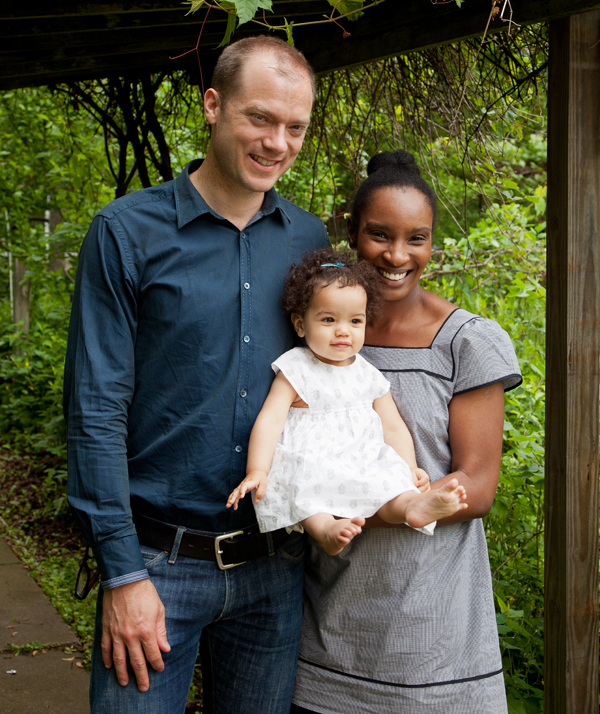
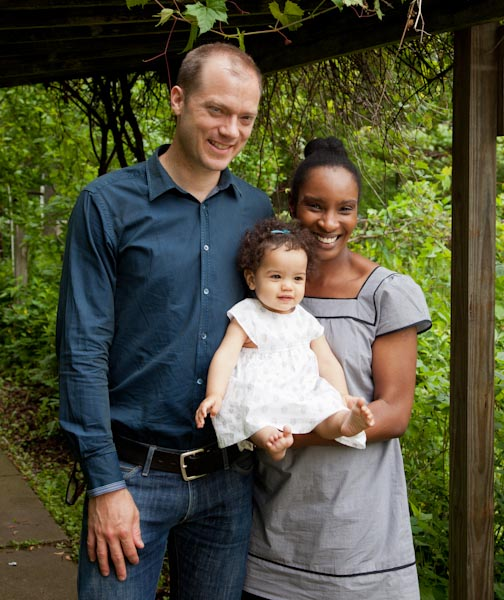
downsized events and portraits images, renamed some portraits

diff --git a/js/site.js b/js/site.js
@@ -1,6 +1,6 @@
 $(document).ready(function() {
 
-	var maxHeightPhoto = 800;
+	var maxHeightPhoto = 600;
 	var maxWinHeight = 0.8;
 	var bodyID = $('body').attr('id'); // get bodyID so can set navType to lib or photo 
 	var libPageArray = new Array("resume","portfolio","lab", "contactLib");

diff --git a/portraits/index.php b/portraits/index.php
@@ -15,6 +15,7 @@
 			<li><p>Family portrait day</p><img src="/img/portraits/family.jpg" alt="Photo of a a multi-racial family in a garden." /></li>
 			<li><p>Gerry Doyle, "From the Depths" book jacket shoot</p><img src="/img/portraits/gd_book_02.jpg" alt="Black and white photo of author Gerry Doyle holding a beer, with the back of a woman\'s head in the foreground." /></li>
 			<li><p>Ariana's second birthday</p><img src="/img/portraits/birthday.jpg" alt="Photo of a two-year-old girl eating a cookie with powdered sugar on her face." /></li>
+			<li><p>Nadia's first swim</p><img src="/img/portraits/pool.jpg" alt="Photo of a father holding his baby daughter in a swimming pool." /></li>      
 			<li><p>Singer, Literature for all of Us benefit at Cary's Lounge, Chicago IL</p><img src="/img/portraits/2009ThisisHell-LFAOU115.jpg" alt="Black and white photo of a smiling singer, head turned to the side." /></li>
 			<li><p>Lety, Greek Independence Day Parade participant, Chicago IL</p><img src="/img/portraits/Lety_Greek_Parade-337.jpg" alt="Young girl in colorful traditional Greek headscarf." /></li>
 		</ul>
@@ -42,6 +43,9 @@
 						{ url: '/img/portraits/birthday.jpg', 
 								alt:'Photo of a two-year-old girl eating a cookie with powdered sugar on her face.',
 								caption: 'Ariana\'s second birthday'},						
+						{ url: '/img/portraits/pool.jpg', 
+								alt:'Photo of a father holding his baby daughter in a swimming pool.',
+								caption: 'Nadia\'s first swim.'},
 						{ url: '/img/portraits/2009ThisisHell-LFAOU115.jpg', 
 								alt:'Black and white photo of a smiling singer, head turned to the side.',
 								caption:'Singer, Literature for all of Us benefit at Cary\'s Lounge, Chicago IL.'},
